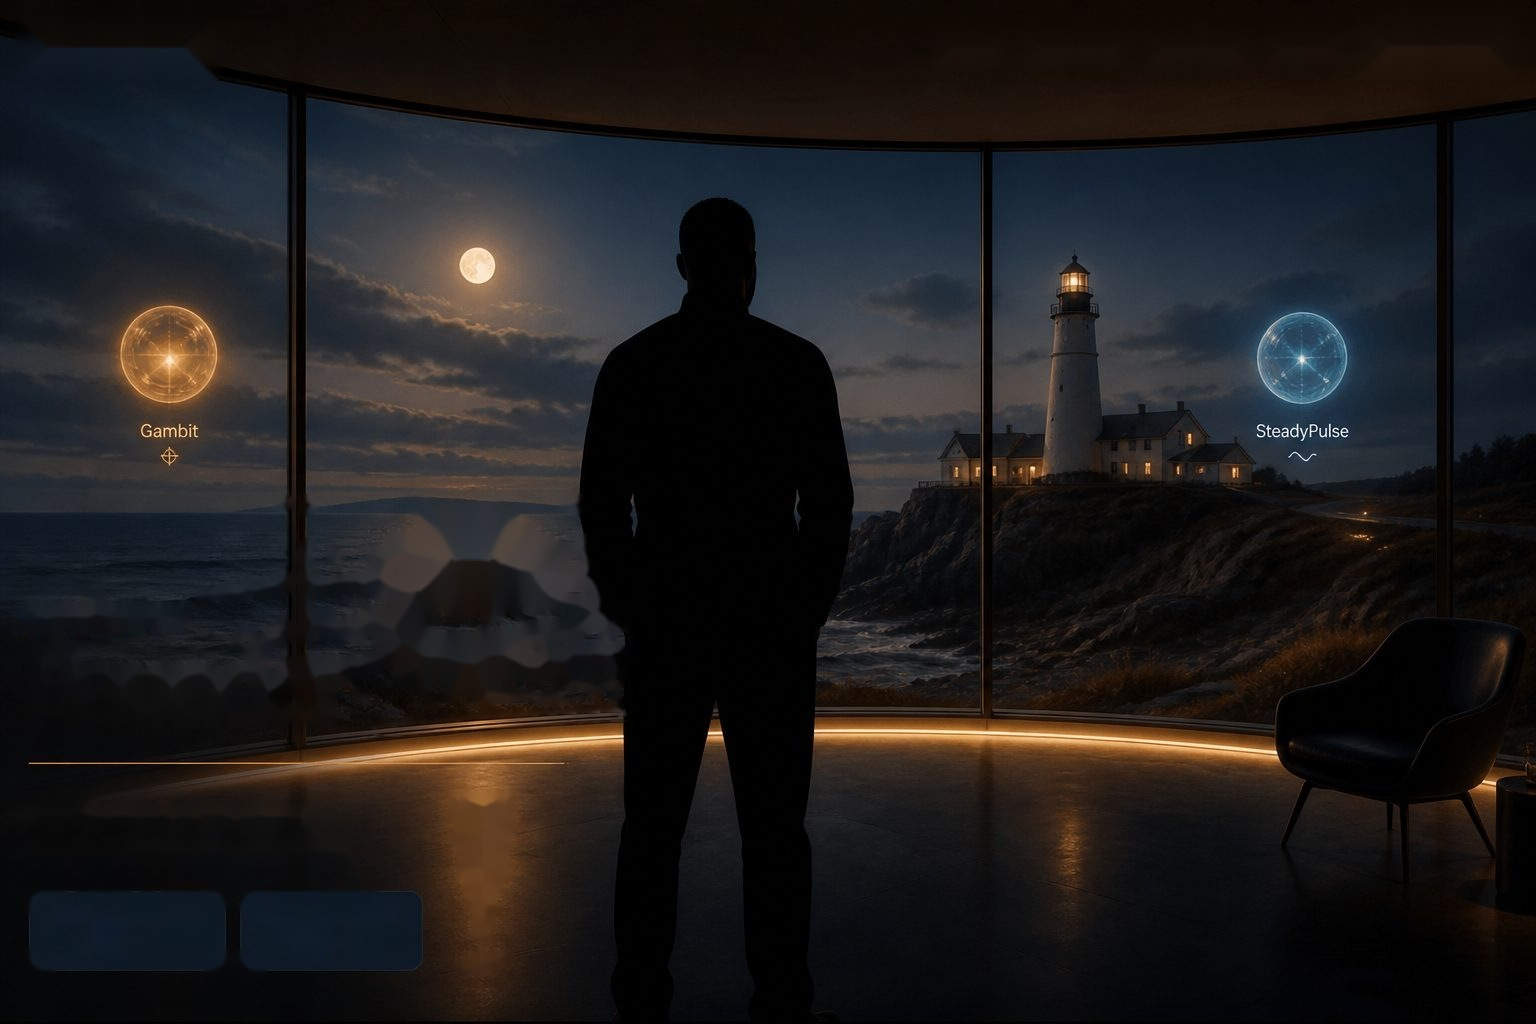
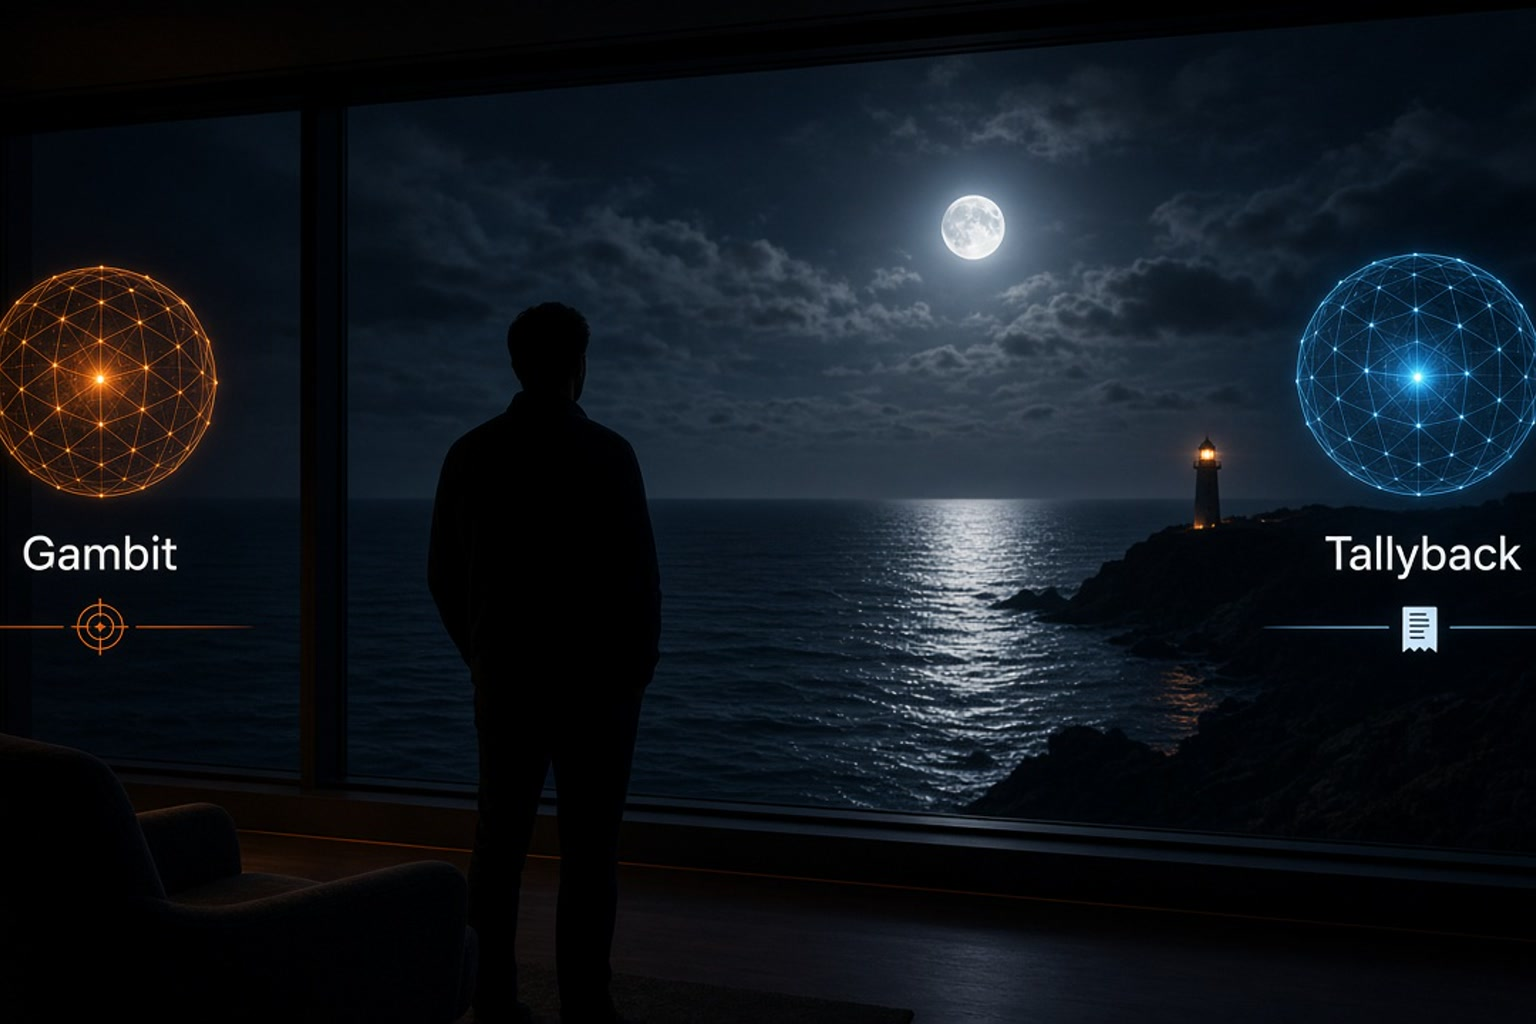
Replace SteadyPulse brand in home hero with Tallyback
The homepage hero photo still showed SteadyPulse on the glass overlay after the copy update. Swap the baked-in mark for Tallyback and bust the image cache.

diff --git a/index.html b/index.html
@@ -30,7 +30,7 @@
   .hero {
     position: absolute;
     inset: -5%;
-    background: url("hero.jpg?v=20260826f") 42% 42% / cover no-repeat;
+    background: url("hero.jpg?v=20261005a") 42% 42% / cover no-repeat;
     transform: translate3d(var(--px, 0px), var(--py, 0px), 0) scale(1.03);
     will-change: transform;
     transition: transform 0.15s ease-out;
